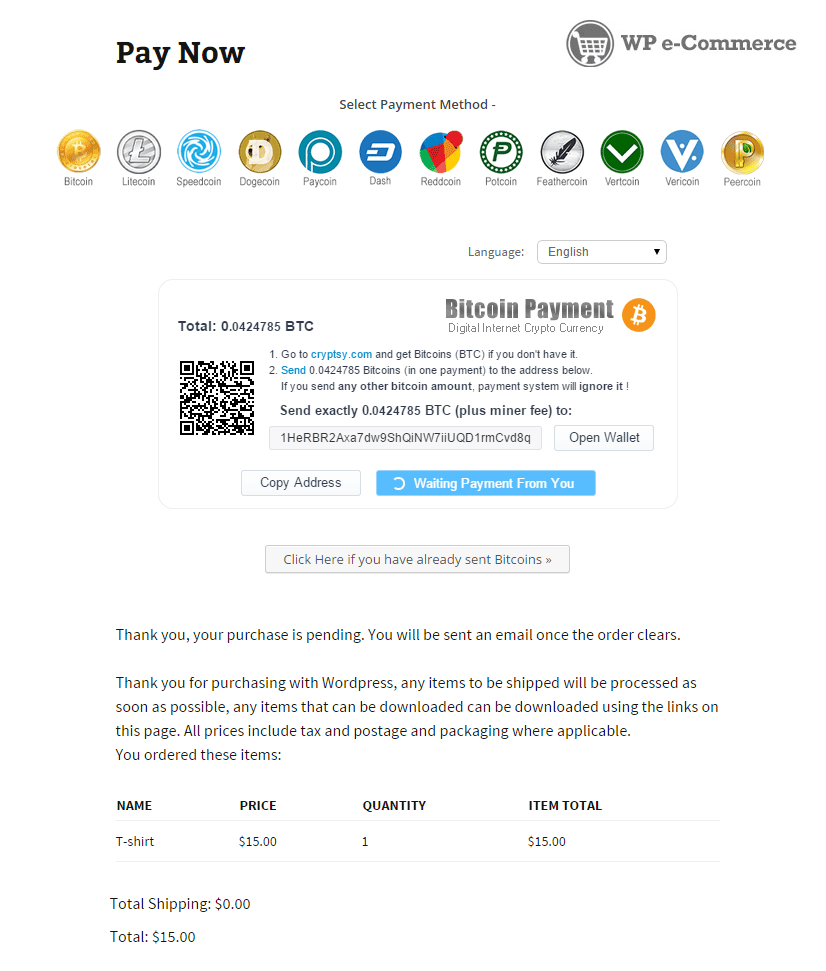
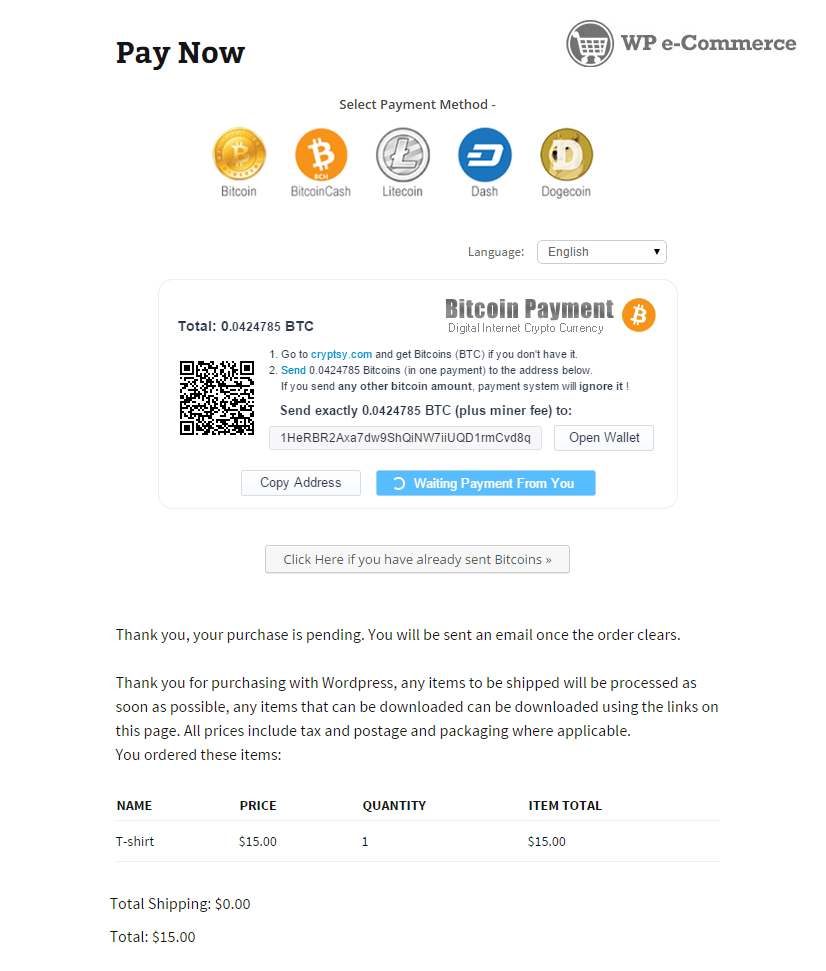
Version 1.1.2
Added Bitcoin Cash (BCH / BCC)

Changed region(s): [[0.0605, 0.1236, 0.9383, 0.2163]]

diff --git a/gourl-wp-ecommerce.php b/gourl-wp-ecommerce.php
@@ -2,8 +2,8 @@
 /*
 Plugin Name: 		GoUrl WP eCommerce - Bitcoin Altcoin Payment Gateway Addon
 Plugin URI: 		https://gourl.io/bitcoin-payments-wp-ecommerce.html
-Description: 		Provides a <a href="https://gourl.io">GoUrl.io</a> Bitcoin/Altcoin Payment Gateway for <a href="https://wordpress.org/plugins/wp-e-commerce/">WP eCommerce 3.8.10+</a>. Support product prices in USD/EUR/etc and in Bitcoin/Altcoins directly; sends the amount straight to your business Bitcoin/Altcoin wallet. Convert your USD/EUR/etc prices to cryptocoins using Google/Bitstamp/Cryptsy Live Exchange Rates. Accept Bitcoin, Litecoin, Paycoin, Dogecoin, Dash, Speedcoin, Reddcoin, Potcoin, Feathercoin, Vertcoin, Vericoin, Peercoin, MonetaryUnit payments online. No Chargebacks, Global, Secure. All in automatic mode.
-Version: 			1.1.1
+Description: 		Provides a <a href="https://gourl.io">GoUrl.io</a> Bitcoin/Altcoin Payment Gateway for <a href="https://wordpress.org/plugins/wp-e-commerce/">WP eCommerce 3.8.10+</a>. Support product prices in USD/EUR/etc and in Bitcoin/Altcoins directly; sends the amount straight to your business Bitcoin/Altcoin wallet. Convert your USD/EUR/etc prices to cryptocoins using Google/Bitstamp/Poloniex Live Exchange Rates. Accept Bitcoin, BitcoinCash, Litecoin, Dash, Dogecoin, Speedcoin, Reddcoin, Potcoin, Feathercoin, Vertcoin, Peercoin, MonetaryUnit payments online. No Chargebacks, Global, Secure. All in automatic mode.
+Version: 			1.1.2
 Author: 			GoUrl.io
 Author URI: 		https://gourl.io
 License: 			GPLv2
@@ -145,7 +145,7 @@ class wpsc_gourl_gateway extends wpsc_merchant
 	
 		$description .= "<br/><b>" . __( 'Secure payments with virtual currency. &#160; <a target="_blank" href="https://bitcoin.org/">What is Bitcoin?</a>', GOURLWPSC ) . '</b><br/>';
 		$description .= __( 'If you use multiple stores/sites online, please create separate <a target="_blank" href="https://gourl.io/editrecord/coin_boxes/0">GoUrl Payment Box</a> (with unique payment box public/private keys) for each of your stores/websites. Do not use the same GoUrl Payment Box with the same public/private keys on your different websites/stores.', GOURLWPSC ).'<br/>';
-		$description .= sprintf(__( 'Accept %s payments online in WP eCommerce.', GOURLWPSC), ($coin_names?ucwords(implode(", ", $coin_names)):"Bitcoin, Litecoin, Paycoin, Dogecoin, Dash, Speedcoin, Reddcoin, Potcoin, Feathercoin, Vertcoin, Vericoin, Peercoin, MonetaryUnit")).'<br/>';
+		$description .= sprintf(__( 'Accept %s payments online in WP eCommerce.', GOURLWPSC), ($coin_names?ucwords(implode(", ", $coin_names)):"Bitcoin, BitcoinCash, Litecoin, Dash, Dogecoin, Speedcoin, Reddcoin, Potcoin, Feathercoin, Vertcoin, Peercoin, MonetaryUnit")).'<br/>';
 	
 		
 		$logos = array('global' => __( 'GoUrl default logo - "Global Payments"', GOURLWPSC ));
@@ -477,7 +477,6 @@ class wpsc_gourl_gateway extends wpsc_merchant
 			$sql = "INSERT INTO `".WPSC_TABLE_CURRENCY_LIST."` VALUES
 				(0, 'Cryptocurrency', 'C1', 'Bitcoin', '', '', 'BTC', '0', '0','world','1'),
 				(0, 'Cryptocurrency', 'C2', 'Litecoin', '', '', 'LTC', '0', '0','world','1'),
-				(0, 'Cryptocurrency', 'C6', 'Paycoin', '', '', 'XPY', '0', '0','world','1'),
 				(0, 'Cryptocurrency', 'C3', 'Dogecoin', '', '', 'DOG', '0', '0','world','1'),
 				(0, 'Cryptocurrency', 'C7', 'Dash', '', '', 'DASH', '0', '0','world','1'),
 				(0, 'Cryptocurrency', 'C5', 'Speedcoin', '', '', 'SPD', '0', '0','world','1'),
@@ -485,9 +484,9 @@ class wpsc_gourl_gateway extends wpsc_merchant
 				(0, 'Cryptocurrency', 'D3', 'Potcoin', '', '', 'POT', '0', '0','world','1'),
 				(0, 'Cryptocurrency', 'D1', 'Feathercoin', '', '', 'FTC', '0', '0','world','1'),
 				(0, 'Cryptocurrency', 'C8', 'Vertcoin', '', '', 'VTC', '0', '0','world','1'),
-				(0, 'Cryptocurrency', 'D2', 'Vericoin', '', '', 'VRC', '0', '0','world','1'),
 				(0, 'Cryptocurrency', 'D4', 'Peercoin', '', '', 'PPC', '0', '0','world','1'),
-				(0, 'Cryptocurrency', 'D5', 'MonetaryUnit', '', '', 'MUE', '0', '0','world','1')";
+				(0, 'Cryptocurrency', 'D5', 'MonetaryUnit', '', '', 'MUE', '0', '0','world','1'),
+				(0, 'Cryptocurrency', 'D6', 'Bitcoin Cash', '', '', 'BCH', '0', '0','world','1')";
 	
 			$wpdb->query($sql);
 		}
@@ -640,7 +639,7 @@ function gourlwpecommerce_gourlcallback ($user_id, $order_id, $payment_details, 
 	if (in_array($status, array(3,4,5)) && !in_array($arr["processed"], array(3,4,5)) && !stripos($_SERVER["REQUEST_URI"], "cryptobox.callback.php")) { header('Location: '.$_SERVER["REQUEST_URI"]); echo "<script>window.location.href = '".$_SERVER["REQUEST_URI"]."';</script>"; die; }
 	
 	
-	return true;  
+	return true; 
 }
 
 

diff --git a/readme.md b/readme.md
@@ -2,20 +2,20 @@
 GoUrl WP eCommerce - Bitcoin Altcoin Payment Gateway Addon
 -----------------------------------------------------------
 
-Version 1.1.1
+Version 1.1.2
 
 
 **Wordpress Plugin provides a Bitcoin/Altcoin Payment Gateway for WP eCommerce 3.8.10+ or higher.**
 
-Accept Bitcoin, Litecoin, Paycoin, Dogecoin, Dash, Speedcoin, Reddcoin, Potcoin, Feathercoin, Vertcoin, Vericoin, Peercoin, MonetaryUnit on Website Online
+Accept Bitcoin, BitcoinCash, Litecoin, Dash, Dogecoin, Speedcoin, Reddcoin, Potcoin, Feathercoin, Vertcoin, Peercoin, MonetaryUnit on Website Online
 
 * Author URI: [https://gourl.io](https://gourl.io)
 * Plugin Page: [https://gourl.io/bitcoin-payments-wp-ecommerce.html](https://gourl.io/bitcoin-payments-wp-ecommerce.html)
 * Wordpress Page: [https://wordpress.org/plugins/gourl-wp-ecommerce-bitcoin-altcoin-payment-gateway-addon](https://wordpress.org/plugins/gourl-wp-ecommerce-bitcoin-altcoin-payment-gateway-addon/)
 * Screenshots: [https://gourl.io/bitcoin-payments-wp-ecommerce.html#screenshot](https://gourl.io/bitcoin-payments-wp-ecommerce.html#screenshot)
 * Requires at least: Wordpress 3.5 and WP eCommerce 3.8.10
-* Tested up to: Wordpress 4.3 and WP eCommerce 3.9.1 
-* Stable Tag: 1.1.1
+* Tested up to: Wordpress 4.9 and WP eCommerce 3.9.1 
+* Stable Tag: 1.1.2
 * License: GNU Version 2 or Any Later Version
 
 
@@ -26,7 +26,7 @@ Accept Bitcoin, Litecoin, Paycoin, Dogecoin, Dash, Speedcoin, Reddcoin, Potcoin,
 * Accept Bitcoin and other cryptocurrency payments in WP eCommerce
 * No Monthly Fee, Transaction Fee from 0%
 * Product Prices in Bitcoin/Altcoins directly and sends the amount straight to your business wallet.
-* Product Prices in USD/EUR/GBP/etc. Google/Bitstamp/Cryptsy Live Exchange Rates
+* Product Prices in USD/EUR/GBP/etc. Google/Bitstamp/Poloniex Live Exchange Rates
 * Direct Integration on your website, no external payment pages opens (as other payment gateways offer)
 * You will see the bitcoin/altcoin payment statistics in one common table on your website. 
 * No Chargebacks, Global, Secure. All in automatic mode.
@@ -70,4 +70,4 @@ Plugin Options
   
 # ![WP eCommerce-Plugin-Options](https://gourl.io/images/wp-ecommerce/screenshot-1.png)
   
-  
+       
